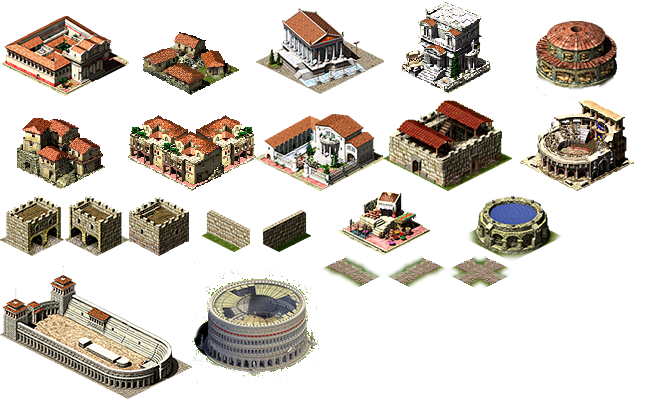
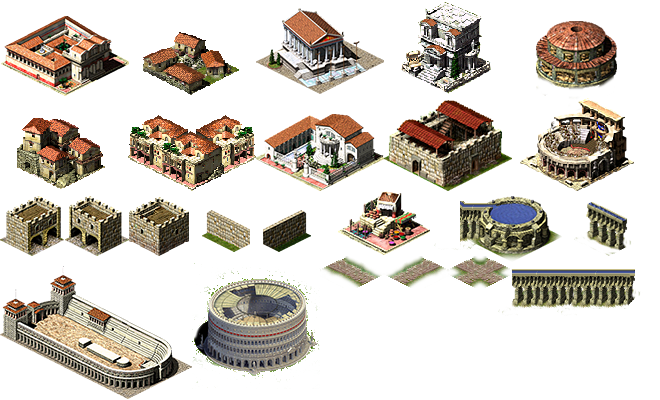
Aqueduct implemented in city view

Changed region(s): [[0.7576, 0.66, 0.9697, 0.78], [0.8788, 0.51, 0.9697, 0.63], [0.697, 0.48, 0.7879, 0.63]]

diff --git a/src/Civ/classes/gfx/CityFrame.java b/src/Civ/classes/gfx/CityFrame.java
@@ -1,5 +1,6 @@
 package Civ.classes.gfx;
 
+import Civ.classes.Coords;
 import org.json.simple.JSONArray;
 import org.json.simple.JSONObject;
 import org.json.simple.parser.JSONParser;
@@ -22,8 +23,10 @@ public class CityFrame extends JFrame {
 
     public Image buildings;
     public Image bg;
+    public Image topBg;
     public CityLayout cityLayout;
     public ArrayList<BuildingGfx> buildingsGfx = new ArrayList<>();
+    public Coords offset;
 
     public int tileSize;
 
@@ -32,9 +35,10 @@ public class CityFrame extends JFrame {
         Dimension screenSize = Toolkit.getDefaultToolkit().getScreenSize();
         setBounds(0,0, screenSize.width, screenSize.height);
         setDefaultCloseOperation(JFrame.EXIT_ON_CLOSE);
-        setPreferredSize(new Dimension(screenSize.width, screenSize.height));
+        setPreferredSize(new Dimension(1000, 500));
         buildings = Toolkit.getDefaultToolkit().getImage("data/rulesets/default/cityview/roman2.png"); //Toolkit.getDefaultToolkit().getImage("data/rulesets/default/cities.png");
-        bg = Toolkit.getDefaultToolkit().getImage("data/rulesets/default/cityview/grasslandbg.jpg");
+        bg = Toolkit.getDefaultToolkit().getImage("data/rulesets/default/cityview/grasslandbg2.jpg");
+        topBg = Toolkit.getDefaultToolkit().getImage("data/rulesets/default/cityview/topbg.png");
         tileSize = 64;
         loadJsonBuildings();
         buildCityLayout();
@@ -90,7 +94,7 @@ public class CityFrame extends JFrame {
 
     public void buildCityLayout() {
         String[] buildings = new String[]{ "palace", "colosseum", "circus","barracks", "granary", "marketplace", "temple", "library", "amphitheater", "aqueduct", };
-        cityLayout = new CityLayout(14, buildings, true, buildingsGfx);
+        cityLayout = new CityLayout(15, buildings, true, buildingsGfx);
     }
 
 
@@ -102,87 +106,114 @@ public class CityFrame extends JFrame {
             paint(g);
         }
 
+        public Coords getDrawCoords(int x, int y, double dx, double dy) {
+            double cidx = y + x + dx;
+            double cidy = x - y + dy;
+            double mod = 1.1;
+
+            int cx = offset.x + (int)(cidx * tileSize * mod / 2);
+            int cy = offset.y + (int)(cidy * tileSize * mod / 4);
+
+            return new Coords(cx, cy);
+        }
+
+        public Coords getDrawCoords(int x, int y)  {
+            return getDrawCoords(x,y,0,0);
+        }
+
+        public Coords getDrawCoords(int x)  {
+            return getDrawCoords(x,x);
+        }
+
+
+        public void drawRoads(Graphics g) {
+            int cc = cityLayout.cityCenter;
+            BuildingGfx roadx = cityLayout.getBuilding("roadv"), roady = cityLayout.getBuilding("roadh");
+            for(int i = 0; i < 20; i++) {
+                drawBuilding(g,roady, cc - i, cc);
+                drawBuilding(g, roadx, cc, cc + i);
+            }
+            for(int i = 0; i < 30; i++) {
+                drawBuilding(g, roady, cc + i, cc);
+                drawBuilding(g,roadx, cc, cc - i);
+            }
+        }
+
+        public void drawBuilding(Graphics g, BuildingGfx buildingGfx, int x, int y) {
+            // Upper left corner of this building rect in source
+            int sx = (int)(tileSize * buildingGfx.x);
+            int sy = (int)(tileSize / 2 * buildingGfx.y);
+
+            // upper left corner of building in destinton
+            int w = (int)(tileSize * (buildingGfx.w));
+            int h = (int)(tileSize / 2 * (buildingGfx.h));
+
+            double dx = buildingGfx.dx - (buildingGfx.w - 1);
+            double dy = buildingGfx.dy - (buildingGfx.h - buildingGfx.w) * 2;
+            if(buildingGfx.w > 1) {
+                dx++;
+                dy--;
+            }
+
+            Coords drawCoords = getDrawCoords(x,y,dx,dy);
+            int cx = drawCoords.x;
+            int cy = drawCoords.y;
+
+
+
+            if(buildingGfx.name.equals("aqueduct")) {
+                drawAqueduct(g, x,y);
+            }
+
+            g.drawImage(buildings, cx, cy,
+                    cx + w,
+                    cy + h,
+                    sx,
+                    sy,
+                    sx + w,
+                    sy + h,
+                    this);
+        }
+
+        public void drawAqueduct(Graphics g, int x, int y) {
+            int offsetX = 5;
+            BuildingGfx aqueductx = cityLayout.getBuilding("aqueductx");
+            BuildingGfx aqueducth = cityLayout.getBuilding("aqueducth");
+            for(int i = 0; i < 10; i++) {
+                drawBuilding(g, aqueducth, -offsetX - 1 - i, y - 1 - i);
+            }
+            for(int i = 0; i < x + offsetX; i++) {
+                drawBuilding(g, aqueductx, i - offsetX, y);
+            }
+        }
 
         public void paint(Graphics g) {
-/*          int dx = (this.getWidth() - bg.getWidth(null)) / 2;
-            int dy = (this.getHeight() - bg.getHeight(null)) / 2;
-            g.translate(this.getWidth() / 2, this.getHeight() / 2);
-            g.translate(-bg.getWidth(null) / 2, -bg.getHeight(null) / 2); */
-            g.drawImage(bg, 0, 0, getWidth(), getHeight(),null);
+
+            g.drawImage(bg, 0,0, getWidth(), getHeight(),null);
+            BuildingGfx buildingGfx;
+            Coords drawCoords;
 
             int offsetX = (getWidth() - (cityLayout.cityLayoutMatrixSize * tileSize)) / 2;
-            int offsetY = getHeight()  / 2;
-           // offsetX = 0 ;//offsetY = 0;
-            BuildingGfx buildingGfx;
+            int offsetY = (int)(getHeight() / 1.8);
+            offset = new Coords(offsetX, offsetY);
 
-            for (int y = cityLayout.cityLayoutMatrixSize - 1; y >= 0; y--) {
-                for (int x = 0; x < cityLayout.cityLayoutMatrixSize; x++) {
+            drawRoads(g);
+
+
+            int to = cityLayout.cityLayoutMatrixSize - 1;
+            for (int y = to; y >= 0; y--) {
+                for (int x = 0; x <= to; x++) {
 
                     buildingGfx = cityLayout.getBuilding(x,  y);
                     if(buildingGfx == null) {
                         continue;
                     }
 
-                    // Upper left corner of this building rect in source
-                    int sx = (int)(tileSize * buildingGfx.x);
-                    int sy = (int)(tileSize / 2 * buildingGfx.y);
-
-                    // upper left corner of building in destinton
-                    int w = (int)(tileSize * (buildingGfx.w));
-                    int h = (int)(tileSize / 2 * (buildingGfx.h));
-                    int dx =  (int)(buildingGfx.w - 1);
-
-                    double cidx = y + x - dx  + buildingGfx.dx;
-                    double cidy = x - y  + buildingGfx.dy;
-
-
-                    if(buildingGfx.w > 1) {
-                        cidx++;
-                        cidy--;
-                    }
-
-                    int zPlus =  (int)(buildingGfx.h - buildingGfx.w) * tileSize / 2;
-                    int cx = offsetX + (int)(cidx * tileSize / 2);
-                    int cy = offsetY + (int)(cidy * tileSize / 4) - zPlus;
-
-
-                    g.drawImage(buildings, cx, cy,
-                            cx + w,
-                            cy + h,
-                            sx,
-                            sy,
-                            sx + w,
-                            sy + h,
-                            this);
+                    drawBuilding(g, buildingGfx, x,y);
                 }
-
-            /*
-            int offsetX = 0;// (getWidth() - (15 * tileSize));
-            int offsetY = (int)((7.5 * tileSize) * 1.2);
-
-            System.out.println(getWidth() +  " - "  + (20 * tileSize) + " = " + offsetX);
-
-            for (int x = 0; x < 30; x++) {
-                for (int y = 0; y < 30; y++) {
-                    // Upper left corner of this terrain rect
-                    int px = tileSize;
-                    int py = tileSize;
-
-
-                    int cx = offsetX + ((y + x) * tileSize / 2);
-                    int cy = offsetY + ((x - y) * tileSize / 4); // - zPlus
-
-
-                    g.drawImage(buildings, cx, cy,
-                            cx + tileSize,
-                            cy + tileSize,
-                            py,
-                            px,
-                            py + tileSize,
-                            px + tileSize,
-                            this);
-                } */
             }
+            int scale = getWidth() / topBg.getWidth(null) * topBg.getHeight(null);
+            g.drawImage(topBg, 0,(int)(getHeight() * 0.15), getWidth(), scale, null);
         }
     }
 }

diff --git a/src/Civ/classes/gfx/CityLayout.java b/src/Civ/classes/gfx/CityLayout.java
@@ -15,6 +15,9 @@ class CityLayout {
     int cityLayoutMatrixSize;
     int bc = 0;
     boolean walled;
+
+    public int cityCenter = 0;
+
     private BuildingGfx emptyBuilding = new BuildingGfx();
 
     public BuildingGfx getBuilding(int x, int y) {
@@ -52,12 +55,14 @@ class CityLayout {
         printCityLayout();
     }
 
+
     public void cityLayout() {
         cityLayoutMatrixSize = buildingMatrixSize * 2 + 3;
         cityLayout = new BuildingGfx[cityLayoutMatrixSize][cityLayoutMatrixSize];
         int half = (int)Math.ceil((double)buildingMatrixSize / 2);
         int r = half * 2 + 1;
         int i; int ix; int iy; int j;
+        cityCenter = r;
 
         int e = cityLayoutMatrixSize - 1;
 
@@ -132,7 +137,7 @@ class CityLayout {
         }
     }
 
-    private BuildingGfx getBuilding(String name) {
+    public BuildingGfx getBuilding(String name) {
         for(int i = 0; i < buildingsGfx.size(); i++) {
             if(buildingsGfx.get(i) != null && buildingsGfx.get(i).name.equals(name)) {
                 return buildingsGfx.get(i);

diff --git a/src/Civ/classes/gfx/BuildingGfx.java b/src/Civ/classes/gfx/BuildingGfx.java
@@ -10,7 +10,11 @@ public class BuildingGfx {
     public double dx = 0;
     public double dy = 0;
     public int size = 1;
-    public String name;
-    public String symbol;
+    public String name = "";
+    public String symbol = "";
+
+    public boolean is(String s) {
+        return s.equals(symbol) || s.equals(name);
+    }
 
 }
